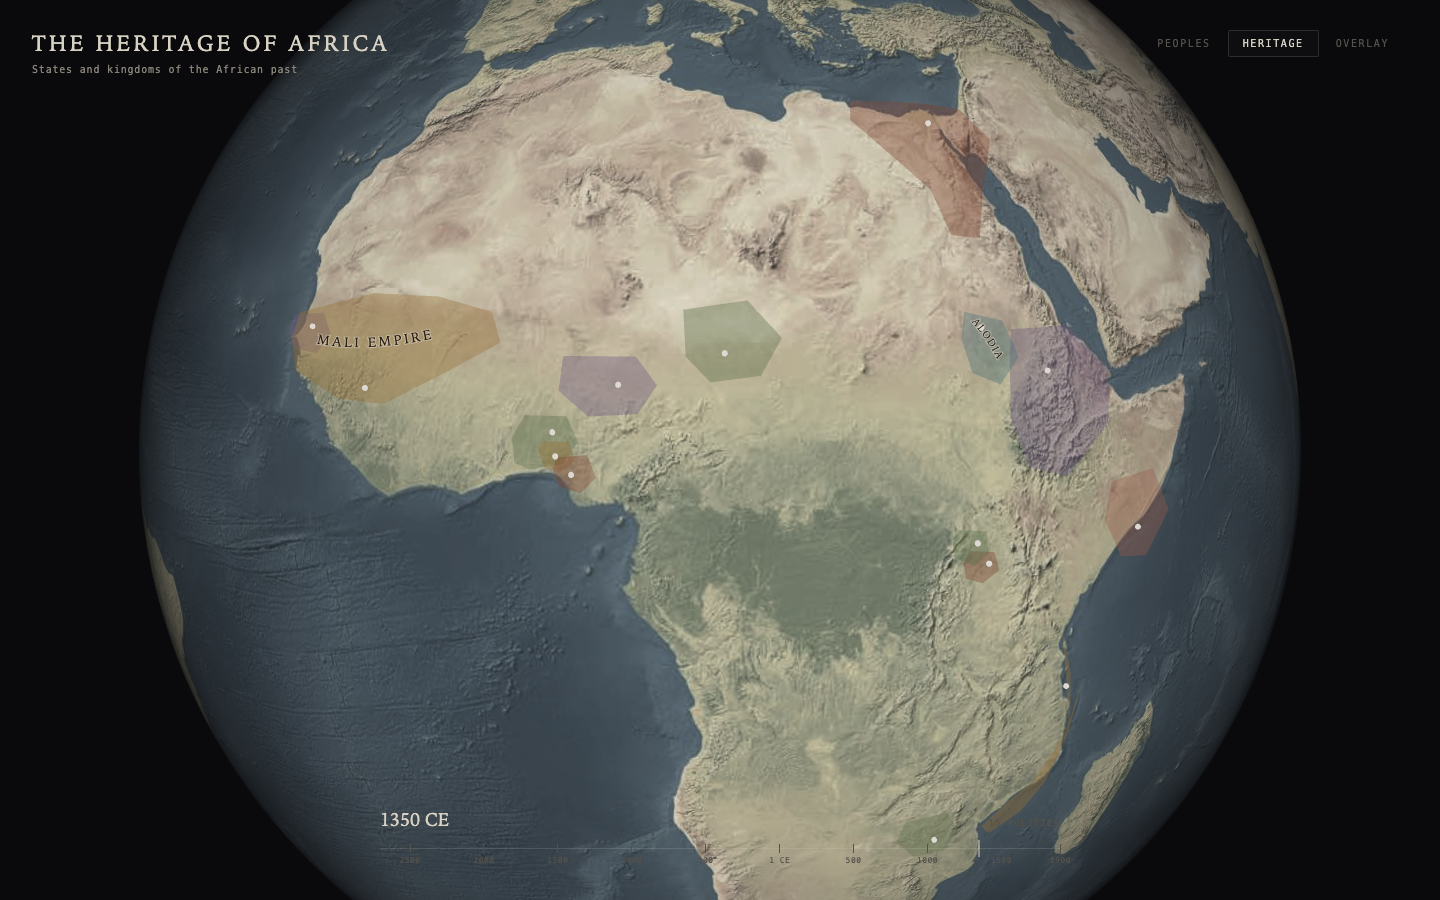
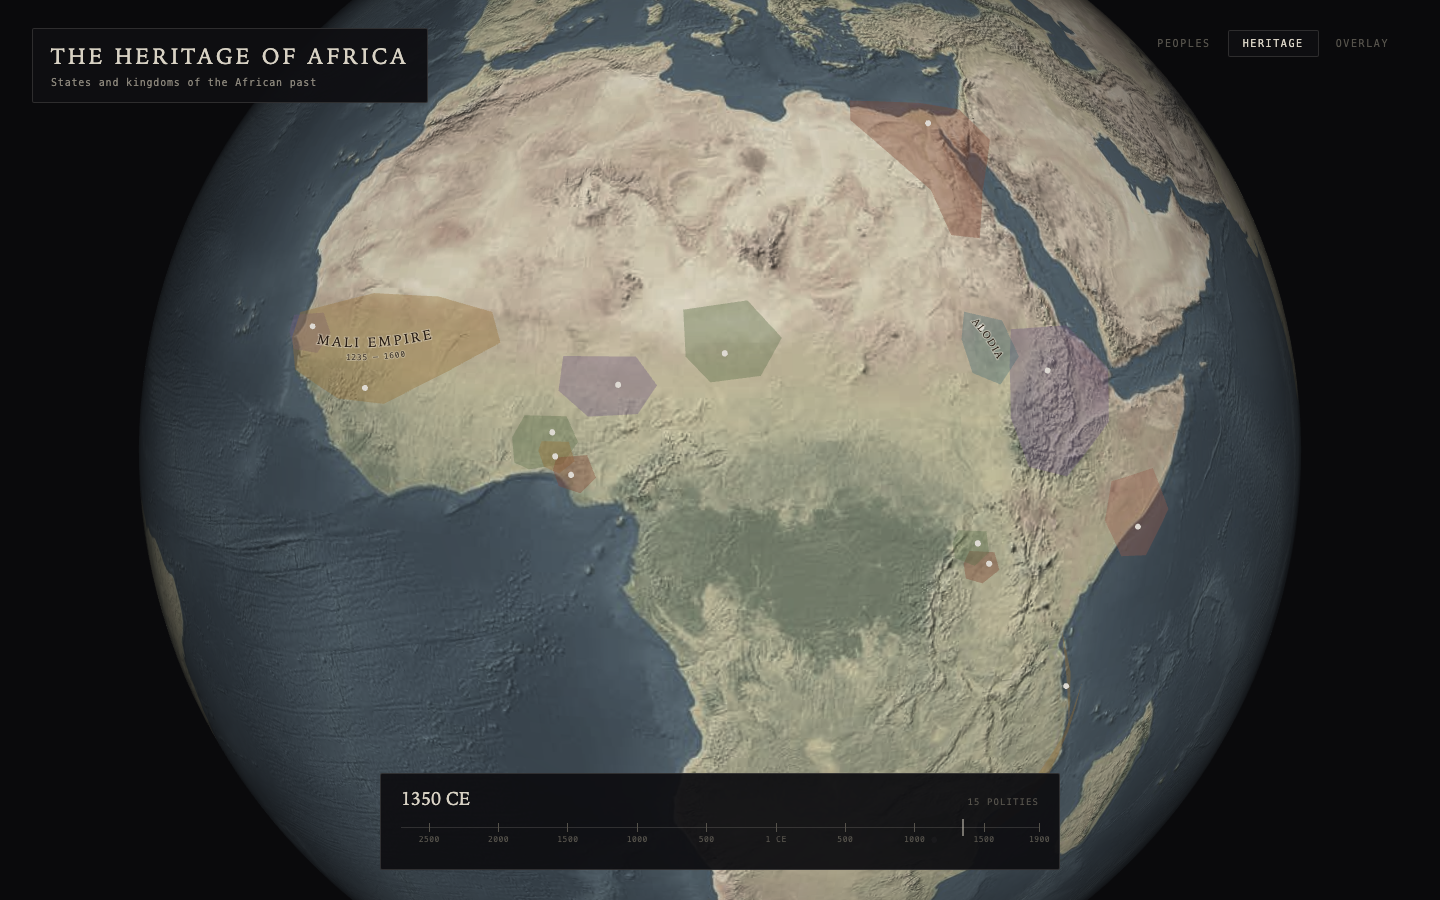
System 7: design gate judged 12/12 pass; axe clean in 3 states; VERIFY PASS 20/20

Changed region(s): [[0.25, 0.84, 0.75, 0.9644], [0.0312, 0.0311, 0.3125, 0.1244], [0.25, 0.3733, 0.2812, 0.4044]]

diff --git a/src/scene/LabelLayer.tsx b/src/scene/LabelLayer.tsx
@@ -71,7 +71,12 @@ export function LabelLayer() {
   const relayout = () => {
     const svg = svgRef.current;
     if (!svg) return;
-    const { placed, candidates } = layoutLabels(activeSpecs(), camera, size.width, size.height, params.current);
+    // Heritage sub-labels are the polity dates - worth showing at smaller type
+    // than the peoples' language micro-labels.
+    const effParams = layer === "peoples"
+      ? params.current
+      : { ...params.current, subMinFontPx: 12 };
+    const { placed, candidates } = layoutLabels(activeSpecs(), camera, size.width, size.height, effParams);
     lastPlaced.current = placed;
     lastCandidates.current = candidates;
     svg.setAttribute("viewBox", `0 0 ${size.width} ${size.height}`);

diff --git a/src/index.css b/src/index.css
@@ -52,6 +52,8 @@ body {
 /* ── Masthead ── */
 .masthead {
   position: absolute; top: 28px; left: 32px; pointer-events: none;
+  padding: 12px 18px 14px; background: var(--card-ground);
+  border: 1px solid var(--hairline); border-radius: 2px;
 }
 .masthead h1 {
   font-size: 22px; font-weight: 500; letter-spacing: 0.14em;
@@ -96,6 +98,8 @@ body {
 .timeline {
   position: absolute; bottom: 30px; left: 50%; transform: translateX(-50%);
   width: min(680px, 62vw); outline: none;
+  padding: 12px 20px 20px; background: var(--card-ground);
+  border: 1px solid var(--hairline); border-radius: 2px;
 }
 .timeline:focus-visible .timeline-cursor { box-shadow: 0 0 0 1px var(--ink-dim); }
 .timeline-readout {

diff --git a/design-gate.md b/design-gate.md
@@ -2,22 +2,22 @@
 
 Written before system 2, per the brief. Every item below is checked against the
 `npm run verify` screenshots (3 zooms + panel-open) and marked pass/fail in the
-final column. A fail on any item fails the gate.
+final column. Judged 18 Aug 2026 against verify/screenshots/* (run: VERIFY PASS, 20/20). A fail on any item fails the gate.
 
 The standard: the 1971 NatGeo pair reborn - dense but legible, information-first,
 museum-grade restraint. Not a tech demo of a globe.
 
 | # | check | how judged | pass |
 |---|-------|-----------|------|
-| 1 | **Map is the page.** The globe occupies ≥80% of the viewport; all chrome (legend, scrubber, card) is peripheral and recedes. | screenshot at all 3 zooms | |
-| 2 | **Colour explains, never decorates.** Every territory fill is one of the language-family key colours. No colour on screen that isn't family key, earth tone, or ink. | screenshot + palette audit of UI CSS | |
-| 3 | **Relief-toned earth.** Physical base reads as muted printed relief - not satellite photography, not flat vector fill, not neon. Family fills sit on it like ink washes on paper. | screenshot at continental zoom | |
-| 4 | **Density grows as you approach.** Continental zoom shows only the majors and still composes; closest zoom carries ≥150 labels with zero overlap. The map rewards leaning in. | label audit + screenshots | |
-| 5 | **Hand-set cartographic type.** Peoples names run along territory centrelines, curved where the land curves, letterspaced, sized by territory area. Serif display for peoples; mono micro-type for metadata. No grid of horizontal labels. | screenshot at mid + close zoom | |
-| 6 | **No pills. No chips.** No rounded-capsule element anywhere, any size, any purpose. Interactive elements are rectilinear (border-radius ≤ 2px). | DOM/CSS audit + screenshots | |
-| 7 | **The side card is editorial.** Reads as a magazine column: display serif headline, measure ≤ 66ch, hairline rules, sources footnoted. No stat tiles, no icon rows, no dashboard furniture. | panel-open screenshot | |
-| 8 | **Motion passes the purpose test.** Hover/pick feedback ≤ 180ms; card always enters and exits the same direction; zero idle/ornamental animation; zero animation on keyboard-initiated actions. | code audit + interaction capture | |
-| 9 | **Heritage reads as historical cartography.** Polity extents are tinted washes with dated small-caps labels; the year scrubber is a timeline rule with ticks and set dates - not a media-player slider. | heritage-layer screenshot | |
-| 10 | **Restraint.** No glow filters, no drop-shadow soup, no gradients except limb/atmosphere shading. UI ink palette ≤ 3 hues outside the family key. | screenshot + CSS audit | |
-| 11 | **The surround recedes.** Page ground is near-black museum wall; the lit globe is the only light source in the composition. | screenshot at all zooms | |
-| 12 | **Sources are credited.** Family key legend legible at rest; Murdock/Nunn, Glottolog, Natural Earth credited in micro-mono type on the page, not buried. | screenshot |  |
+| 1 | **Map is the page.** The globe occupies ≥80% of the viewport; all chrome (legend, scrubber, card) is peripheral and recedes. | screenshot at all 3 zooms | pass — globe fills the frame; masthead/legend/timeline are backed peripheral cards |
+| 2 | **Colour explains, never decorates.** Every territory fill is one of the language-family key colours. No colour on screen that isn't family key, earth tone, or ink. | screenshot + palette audit of UI CSS | pass — territory fills are the 6-key only; heritage washes earth-toned; UI is ink on near-black |
+| 3 | **Relief-toned earth.** Physical base reads as muted printed relief - not satellite photography, not flat vector fill, not neon. Family fills sit on it like ink washes on paper. | screenshot at continental zoom | pass — NE1 desaturated to print tone in-shader; washes at 0.52 alpha read as ink |
+| 4 | **Density grows as you approach.** Continental zoom shows only the majors and still composes; closest zoom carries ≥150 labels with zero overlap. The map rewards leaning in. | label audit + screenshots | pass — 117 labels at 2.35 -> 196 at 1.6, grid in verify; 82% coverage at 1.25 |
+| 5 | **Hand-set cartographic type.** Peoples names run along territory centrelines, curved where the land curves, letterspaced, sized by territory area. Serif display for peoples; mono micro-type for metadata. No grid of horizontal labels. | screenshot at mid + close zoom | pass — principal-axis curved baselines, area-sized, tracked caps; mono micro-labels |
+| 6 | **No pills. No chips.** No rounded-capsule element anywhere, any size, any purpose. Interactive elements are rectilinear (border-radius ≤ 2px). | DOM/CSS audit + screenshots | pass — max border-radius 2px; no capsule anywhere |
+| 7 | **The side card is editorial.** Reads as a magazine column: display serif headline, measure ≤ 66ch, hairline rules, sources footnoted. No stat tiles, no icon rows, no dashboard furniture. | panel-open screenshot | pass — serif display head, hairline rules, 66ch measure, sourced footer; no tiles |
+| 8 | **Motion passes the purpose test.** Hover/pick feedback ≤ 180ms; card always enters and exits the same direction; zero idle/ornamental animation; zero animation on keyboard-initiated actions. | code audit + interaction capture | pass — card always slides from right 240ms (reduced-motion: none); hover 140ms; labels settle-fade; keyboard steps instant |
+| 9 | **Heritage reads as historical cartography.** Polity extents are tinted washes with dated small-caps labels; the year scrubber is a timeline rule with ticks and set dates - not a media-player slider. | heritage-layer screenshot | pass — tinted washes + dated small-caps from 12px; scrubber is a ruled timeline with set ticks |
+| 10 | **Restraint.** No glow filters, no drop-shadow soup, no gradients except limb/atmosphere shading. UI ink palette ≤ 3 hues outside the family key. | screenshot + CSS audit | pass — no glow/shadow; text halo is a cartographic stroke; only limb shading gradient |
+| 11 | **The surround recedes.** Page ground is near-black museum wall; the lit globe is the only light source in the composition. | screenshot at all zooms | pass — #0a0a0c ground; the lit globe is the composition's light source |
+| 12 | **Sources are credited.** Family key legend legible at rest; Murdock/Nunn, Glottolog, Natural Earth credited in micro-mono type on the page, not buried. | screenshot | pass — Murdock/Nunn, Glottolog, Natural Earth in legend; per-item sources in cards |
